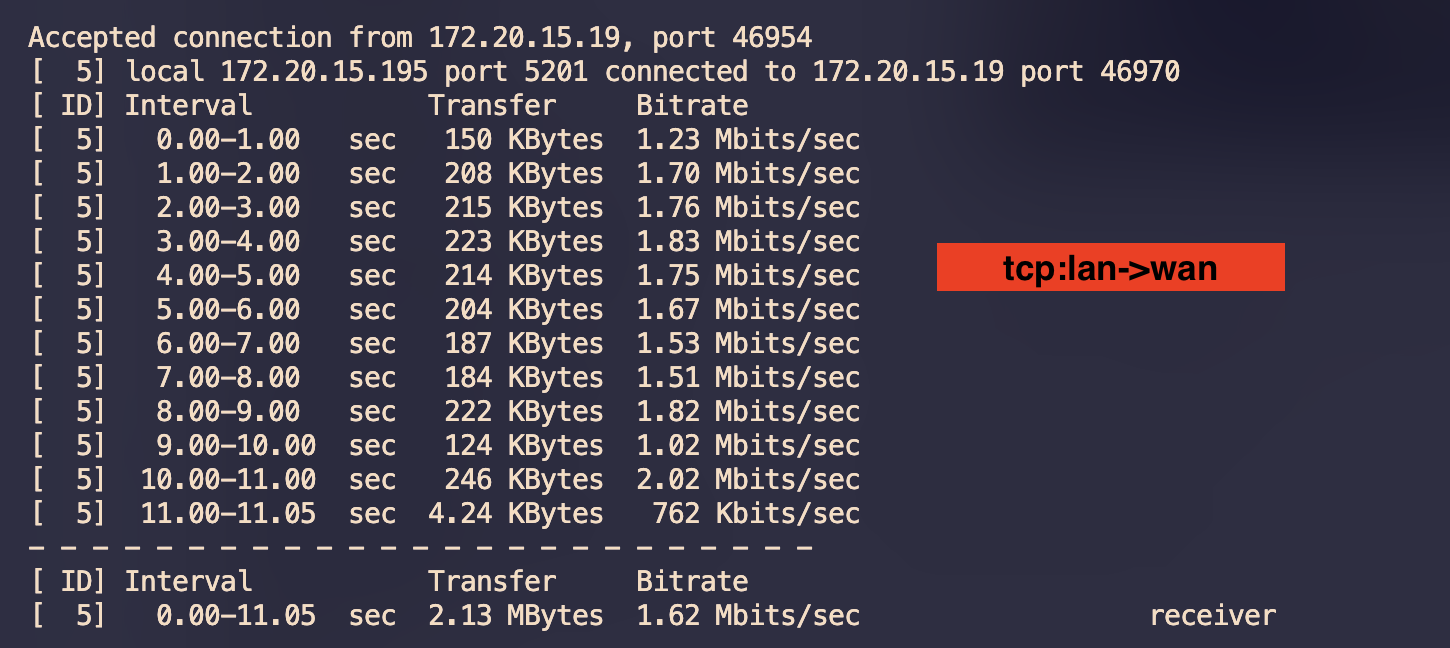
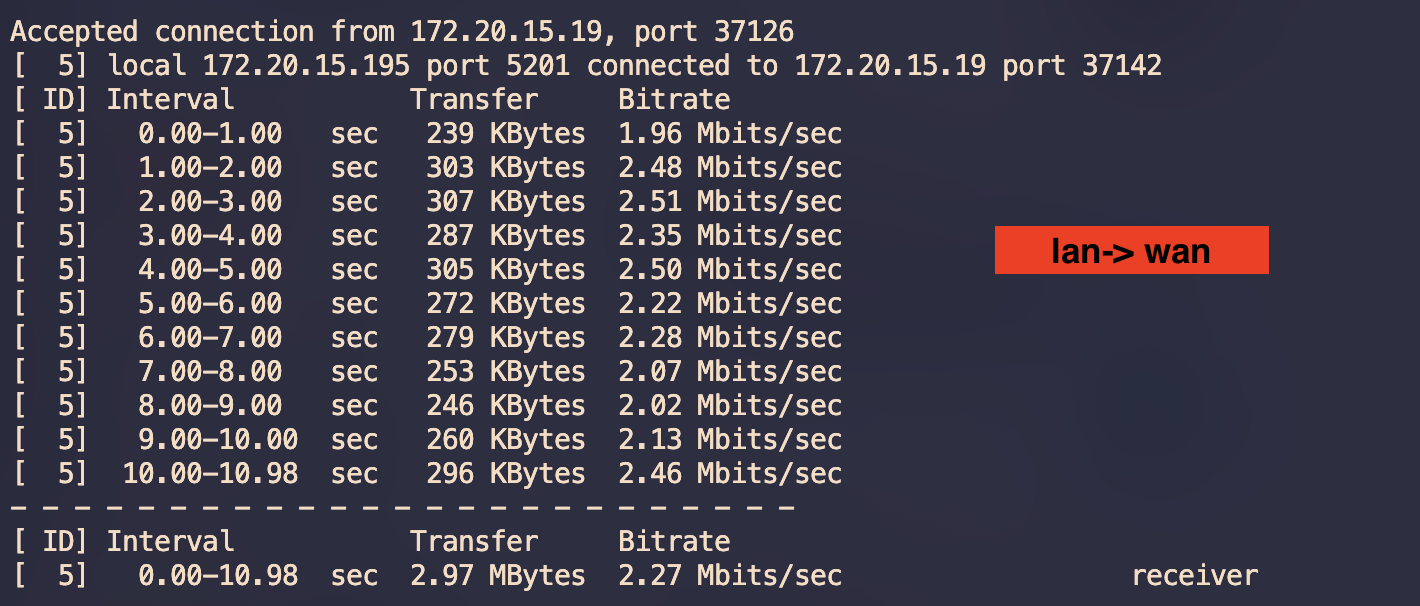
siliconwaves: update doc

Changed region(s): [[0.0, 0.0297, 0.8366, 0.9802], [0.6197, 0.3564, 0.8986, 0.4752], [0.7746, 0.9208, 0.8986, 0.9802]]

diff --git a/Document/quick-start.md b/Document/quick-start.md
@@ -234,8 +234,8 @@ Usage:led-lightup [-hnv] [-n gpio-num 0-3][-v on-off 0/1]
 
 # 7.网速测试
 
-lan pc到wan pc测速结果
+lan pc到wan pc测速tcp结果
 ![](./pictures/lan-to-wan.png)
 
-wan pc 到 lan pc测度结果
+wan pc 到 lan pc测速tcp结果
 ![](./pictures/wan-to-lan.png)
